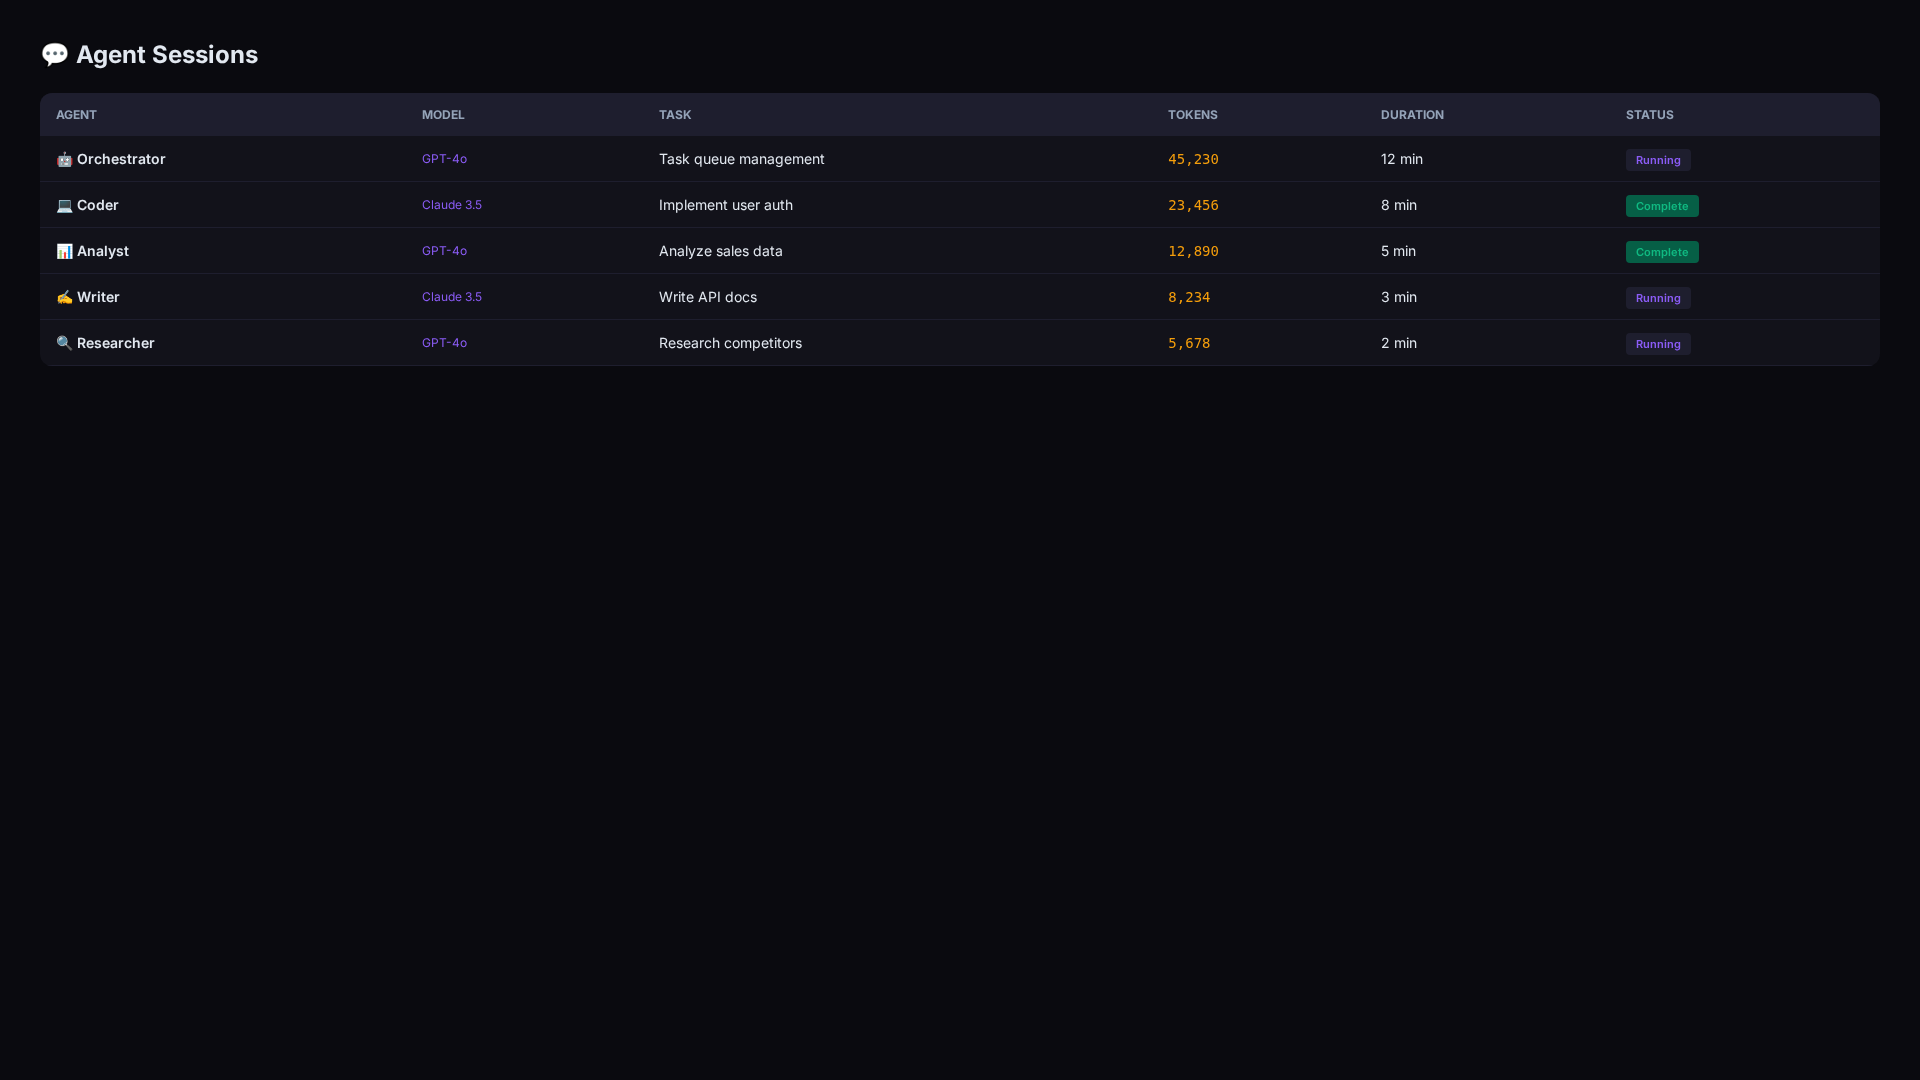
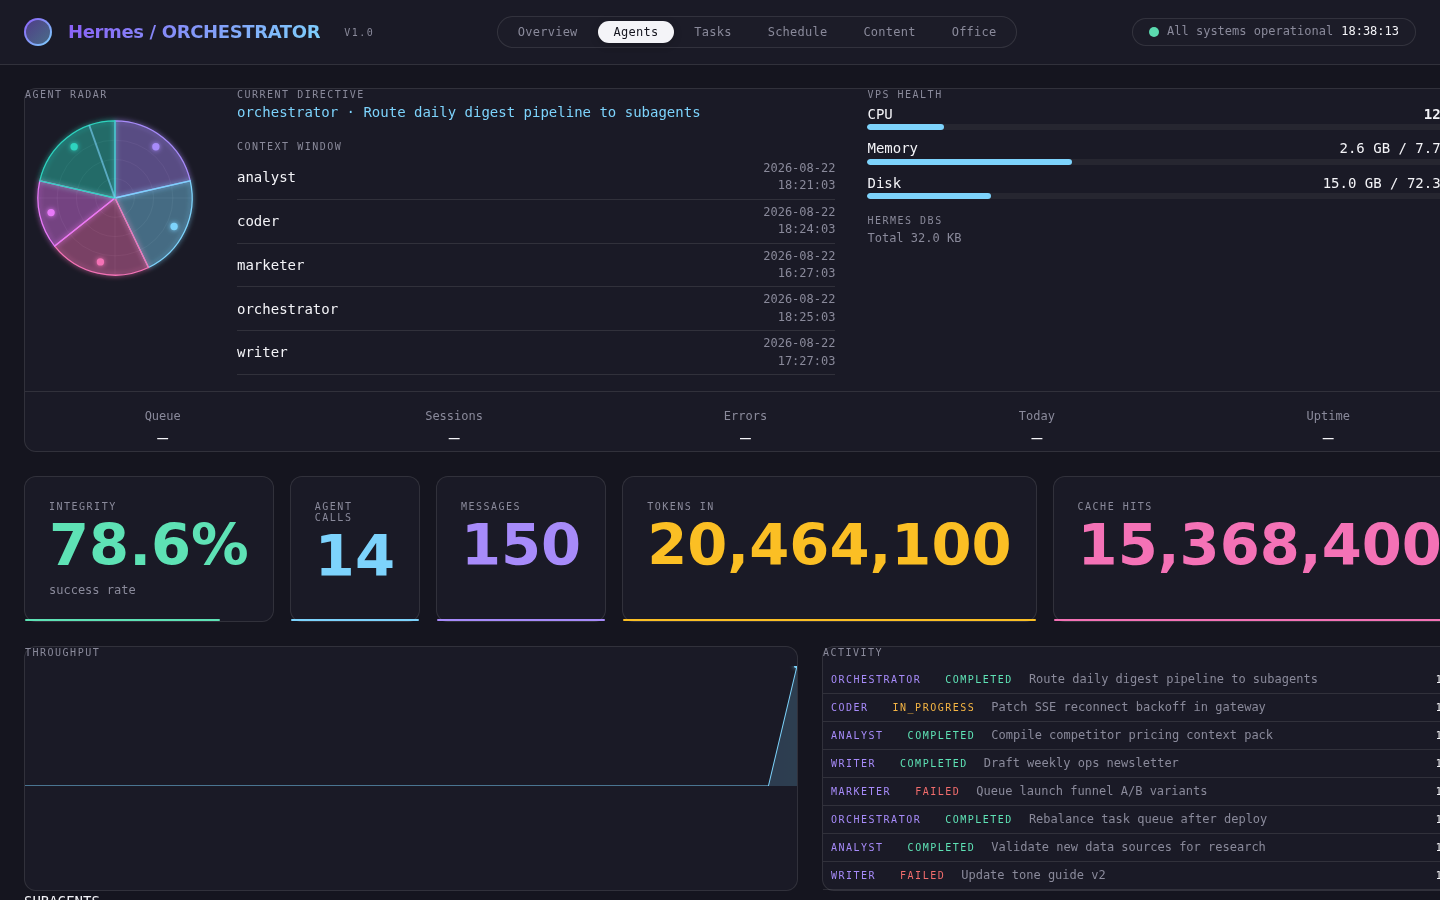
chore(maintenance): audit fixes, screenshots

diff --git a/app.js b/app.js
@@ -129,7 +129,7 @@ function renderContext(container, activity) {
 }
 function renderVpsHealth(container, vps) {
   if (!container) return;
-  if (!vps || vps.error) { container.innerHTML = Badge({ text: v && v.error || 'unavailable', color: 'var(--status-error)' }); return; }
+  if (!vps || vps.error) { container.innerHTML = Badge({ text: (vps && vps.error) || 'unavailable', color: 'var(--status-error)' }); return; }
   const cpuColor = vps.cpu_percent > 85 ? 'var(--status-error)' : vps.cpu_percent > 70 ? 'var(--status-warning)' : 'var(--brand-cyan)';
   const memColor = vps.memory.percent > 85 ? 'var(--status-error)' : vps.memory.percent > 70 ? 'var(--status-warning)' : 'var(--brand-cyan)';
   const diskColor = vps.disk.percent > 85 ? 'var(--status-error)' : vps.disk.percent > 70 ? 'var(--status-warning)' : 'var(--brand-cyan)';
@@ -549,39 +549,37 @@ function columnHTML(status, tasks) {
     </div>
   `;
 }
+async function handleBoardClick(e) {
+  const btn = e.target.closest('button[data-act], button[data-add]');
+  if (!btn) return;
+  const addBtn = btn.closest('[data-add]');
+  if (addBtn) { openAddModal(); return; }
+  const act = btn.dataset.act;
+  const card = btn.closest('.task-card');
+  const id = card?.dataset.id;
+  const task = boardTasks.find(t => t.id === id);
+  if (!task) return;
+  if (act === 'delete') {
+    card.style.opacity = '0.4'; card.style.pointerEvents = 'none';
+    try { await deleteTaskApi(task.id); boardTasks = boardTasks.filter(t => t.id !== task.id); }
+    catch (err) { card.style.opacity = '1'; card.style.pointerEvents = 'auto'; }
+    finally { await refreshBoard(); renderBoard(); }
+    return;
+  }
+  if (act === 'forward' || act === 'back') {
+    const dir = act === 'forward' ? 1 : -1;
+    const next = moveStatus(task.status, dir);
+    if (!next) return;
+    card.style.opacity = '0.5';
+    try { await updateTaskStatus(task.id, next); task.status = next; }
+    catch (err) { card.style.opacity = '1'; }
+    finally { await refreshBoard(); renderBoard(); }
+  }
+}
 function buildTasks() {
-  const board = document.getElementById('board-root');
-  if (!board) return '';
-  board.addEventListener('click', async (e) => {
-    const btn = e.target.closest('button[data-act], button[data-add]');
-    if (!btn) return;
-    const addBtn = btn.closest('[data-add]');
-    if (addBtn) { openAddModal(); return; }
-    const act = btn.dataset.act;
-    const card = btn.closest('.task-card');
-    const id = card?.dataset.id;
-    const task = boardTasks.find(t => t.id === id);
-    if (!task) return;
-    if (act === 'delete') {
-      card.style.opacity = '0.4'; card.style.pointerEvents = 'none';
-      try { await deleteTaskApi(task.id); boardTasks = boardTasks.filter(t => t.id !== task.id); }
-      catch (err) { card.style.opacity = '1'; card.style.pointerEvents = 'auto'; }
-      finally { await refreshBoard(); renderBoard(); }
-      return;
-    }
-    if (act === 'forward' || act === 'back') {
-      const dir = act === 'forward' ? 1 : -1;
-      const next = moveStatus(task.status, dir);
-      if (!next) return;
-      card.style.opacity = '0.5';
-      try { await updateTaskStatus(task.id, next); task.status = next; }
-      catch (err) { card.style.opacity = '1'; }
-      finally { await refreshBoard(); renderBoard(); }
-    }
-  });
   return `
     <div class="board" id="board-root">
-      ${STATUS_FLOW.map(s => columnHTML(s, boardTasks.filter(t => (t.status || 'pending') === s))).join('')}
+      ${STATUS_FLOW.map(s => columnHTML(s, [])).join('')}
     </div>
     <div id="modal-root"></div>
   `;
@@ -590,6 +588,10 @@ function renderTasksTab(data) {
   currentData = data;
   const boardRoot = document.getElementById('board-root');
   if (!boardRoot) return;
+  if (!boardRoot.dataset.bound) {
+    boardRoot.dataset.bound = '1';
+    boardRoot.addEventListener('click', handleBoardClick);
+  }
   const pending = boardTasks.filter(t => (t.status || 'pending') === 'pending');
   const inProg = boardTasks.filter(t => (t.status || 'pending') === 'in_progress');
   const done = boardTasks.filter(t => (t.status || 'pending') === 'completed');
@@ -653,8 +655,10 @@ function buildShell() {
       panels.forEach(p => p.classList.remove('active'));
       document.getElementById(`tab-${btn.dataset.tab}`).classList.add('active');
       if (btn.dataset.tab === 'tasks') renderBoard();
+      if (btn.dataset.tab === 'agents') renderAgentsTab(currentData);
+      if (btn.dataset.tab === 'schedule') renderScheduleTab(currentData);
       if (btn.dataset.tab === 'content') renderContentTab();
-      if (btn.dataset.tab === 'office') renderOfficeTab();
+      if (btn.dataset.tab === 'office') renderOfficeTab(currentData);
     });
   });
   const clockEl = nav.querySelector('.clock');
@@ -951,8 +955,8 @@ async function renderContentView(panel, doc) {
   try {
     const res = await fetchContentFile(doc.path);
     const md = res.content || res.text || '';
-    if (typeof marked !== 'undefined') {
-      html = marked.parse(md);
+    if (typeof marked !== 'undefined' && typeof DOMPurify !== 'undefined') {
+      html = DOMPurify.sanitize(marked.parse(md));
     } else {
       html = '<pre>' + esc(md) + '</pre>';
     }
@@ -1027,7 +1031,7 @@ let officeRenderer = null;
 let officeAgents = [];
 let officeAnimId = null;
 let raycaster = null;
-let mouse = new THREE.Vector2();
+let mouse = { x: 0, y: 0 };
 let selectedOfficeAgent = null;
 let cameraAngle = Math.PI / 4;
 let cameraHeight = 12;

diff --git a/components.js b/components.js
@@ -8,7 +8,10 @@ export const GlassCard = ({ children, className = '', style = {} }) => `
   ">${children}</div>
 `;
 
+const esc = (s) => String(s ?? '').replace(/[&<>"']/g, c => ({'&':'&amp;','<':'&lt;','>':'&gt;','"':'&quot;',"'":'&#39;'}[c]));
+
 export const Badge = ({ text, color = 'var(--text-muted)', variant = 'subtle' }) => {
+  text = esc(text);
   const bg = variant === 'solid' ? color : `${color}20`;
   return `<span class="badge" style="
     background: ${bg};
@@ -37,11 +40,14 @@ export const ProgressBar = ({ pct, color = 'var(--brand-cyan)', height = '6px' }
   </div>
 `;
 
-export const ThinBar = ({ pct, color }) => `
+export const ThinBar = ({ pct, color }) => {
+  const vals = Array.isArray(pct) ? pct : Array.from({ length: 7 }, () => Number(pct) || 0);
+  return `
   <div style="display: flex; gap: 2px; align-items: flex-end; height: 32px;">
-    ${pct.reverse().map((v, i) => `<div style="width: calc(100% / 7 - 2px); height: ${Math.max(2, v * 0.32)}px; background: ${color}; border-radius: var(--radius-sm); opacity: ${v > 0 ? 0.85 : 0.15};"></div>`).join('')}
+    ${[...vals].reverse().map((v, i) => `<div style="width: calc(100% / 7 - 2px); height: ${Math.max(2, v * 0.32)}px; background: ${color}; border-radius: var(--radius-sm); opacity: ${v > 0 ? 0.85 : 0.15};"></div>`).join('')}
   </div>
 `;
+};
 
 export const DonutChart = ({ slices, total }) => {
   if (total === 0) return '<canvas style="width:130px;height:130px"></canvas>';

diff --git a/index.html b/index.html
@@ -3,8 +3,10 @@
 <head>
 <meta charset="UTF-8">
 <meta name="viewport" content="width=device-width, initial-scale=1.0">
+<link rel="icon" href="data:,">
 <link rel="stylesheet" href="tokens.css">
   <script src="https://cdn.jsdelivr.net/npm/marked/marked.min.js" defer></script>
+  <script src="https://cdnjs.cloudflare.com/ajax/libs/dompurify/3.1.6/purify.min.js" defer></script>
   <script src="https://cdnjs.cloudflare.com/ajax/libs/three.js/r128/three.min.js" defer></script>
 <style>
   html, body {

diff --git a/server.py b/server.py
@@ -8,6 +8,7 @@ import sys
 import time
 from datetime import datetime, timezone
 from http.server import BaseHTTPRequestHandler
+from urllib.parse import unquote
 
 PROJECT_DIR = os.path.dirname(os.path.abspath(__file__))
 HERMES_HOME = os.environ.get("HERMES_HOME", os.path.join(PROJECT_DIR, "..", ".hermes"))
@@ -345,9 +346,12 @@ def cron_jobs():
 CONTENT_DIR = os.environ.get("MISSION_CONTROL_CONTENT_DIR", os.path.join(PROJECT_DIR, "content"))
 
 def _safe_content_path(raw):
-    p = os.path.normpath(os.path.join(CONTENT_DIR, raw or ""))
-    if not p.startswith(CONTENT_DIR):
+    root = os.path.realpath(CONTENT_DIR)
+    p = os.path.realpath(os.path.join(root, raw or ""))
+    if p != root and not p.startswith(root + os.sep):
         raise ValueError("path traversal rejected")
+    if not p.endswith(".md"):
+        raise ValueError("only .md files are supported")
     return p
 
 def list_content():
@@ -389,7 +393,10 @@ def list_content():
     return safe(_run)
 
 def get_content(raw_path):
-    p = _safe_content_path(raw_path)
+    try:
+        p = _safe_content_path(raw_path)
+    except ValueError as e:
+        return {"error": str(e)}
     def _run():
         with open(p, "r", encoding="utf-8") as f:
             return f.read()
@@ -398,7 +405,10 @@ def get_content(raw_path):
 def save_content(data):
     raw = data.get("path") or ""
     content = data.get("content") or ""
-    p = _safe_content_path(raw)
+    try:
+        p = _safe_content_path(raw)
+    except ValueError as e:
+        return {"error": str(e)}
     def _run():
         os.makedirs(os.path.dirname(p) or CONTENT_DIR, exist_ok=True)
         with open(p, "w", encoding="utf-8") as f:
@@ -579,12 +589,14 @@ class Handler(BaseHTTPRequestHandler):
                 pass
             finally:
                 self.request.settimeout(None)
+        elif self.path == "/api/health":
+            self._send_json({"status": "ok", "t": datetime.now(timezone.utc).isoformat()})
         elif self.path == "/api/board":
             self._send_json(get_board())
         elif self.path == "/api/content":
             self._send_json(list_content())
         elif self.path.startswith("/api/content/get?path="):
-            file_path = self.path.split("=", 1)[1]
+            file_path = unquote(self.path.split("=", 1)[1])
             self._send_json(get_content(file_path))
         else:
             self.send_error(404)
@@ -612,14 +624,23 @@ class Handler(BaseHTTPRequestHandler):
                 self.end_headers()
                 self.wfile.write(payload)
                 return
-        length = int(self.headers.get("Content-Length", 0))
+        try:
+            length = int(self.headers.get("Content-Length", 0))
+        except ValueError:
+            length = 0
         body = self.rfile.read(length) if length else b""
-        data = json.loads(body) if body else {}
+        try:
+            data = json.loads(body) if body else {}
+            if not isinstance(data, dict):
+                raise ValueError("JSON object required")
+        except ValueError:
+            self._send_json({"error": "invalid JSON body"})
+            return
         if self.path.startswith("/api/board/update?id="):
-            task_id = self.path.split("=", 1)[1]
+            task_id = unquote(self.path.split("=", 1)[1])
             self._send_json(update_task(task_id, data))
         elif self.path.startswith("/api/board/delete?id="):
-            task_id = self.path.split("=", 1)[1]
+            task_id = unquote(self.path.split("=", 1)[1])
             self._send_json(delete_task(task_id))
         elif self.path == "/api/board":
             self._send_json(create_task(data))
@@ -665,6 +686,7 @@ class Handler(BaseHTTPRequestHandler):
 def run():
     init_board()
     socketserver.ThreadingTCPServer.allow_reuse_address = True
+    socketserver.ThreadingTCPServer.daemon_threads = True
     with socketserver.ThreadingTCPServer((BIND, PORT), Handler) as httpd:
         print(f"Serving http://{BIND}:{PORT}")
         httpd.serve_forever()

diff --git a/README.md b/README.md
@@ -13,7 +13,7 @@ AI agent operations dashboard
 ---
 
 <p align="center">
-  <img src="docs/assets/demo.gif" alt="OpsCenter preview" width="90%">
+  <img src="docs/screenshots/dashboard.png" alt="OpsCenter preview" width="90%">
 </p>
 
 <br>
@@ -27,21 +27,21 @@ AI agent operations dashboard
 - **Session Tracking** — Historical log of agent sessions and outcomes.
 - **Token Analytics** — Usage tracking and cost monitoring for LLM calls.
 - **System Health** — Server resource monitoring and alerting.
-- **WebSocket Updates** — Live streaming of agent state changes.
+- **Server-Sent Events** — Live streaming of agent state changes.
 - **Dark-Themed UI** — Professional, easy-on-the-eyes operations interface.
 - **Fleet Visualization** — 3D topology view of distributed agent nodes.
 
 ## Quick Start
 
+OpsCenter is a single self-contained Python app — standard library only, no pip dependencies.
+
 ```bash
 git clone https://github.com/OneByJorah/OpsCenter.git
 cd OpsCenter
-cp .env.example .env
-pip install -r requirements.txt
 python3 server.py
 ```
 
-Open **http://localhost:8080** in your browser.
+Open **http://localhost:51763** in your browser.
 
 ### Using the Start Script
 
@@ -54,16 +54,16 @@ chmod +x start.sh
 
 | Variable | Default | Description |
 |----------|---------|-------------|
-| `PORT` | `8080` | Dashboard server port |
+| `PORT` | `51763` | Dashboard server port |
 | `BIND` | `127.0.0.1` | Server bind address |
 | `HERMES_HOME` | `../.hermes` | Path to the Hermes agent home directory |
-| `MISSION_CONTROL_API_KEY` | *(empty)* | API key for protecting dashboard endpoints |
-| `CONTENT_DIR` | `../.hermes/content` | Content directory for the editor |
+| `MISSION_CONTROL_API_KEY` | *(empty)* | API key protecting write endpoints (task board, content editor) via the `X-API-Key` header |
+| `MISSION_CONTROL_CONTENT_DIR` | `./content` | Markdown content directory for the editor |
 
 ## Architecture
 
 ```
-Browser (HTML/JS) ──WebSocket──▶ Python Server ──▶ SQLite
+Browser (HTML/JS) ──SSE / REST──▶ Python Server ──▶ SQLite
                                       │
                                       ▼
                               Agent Gateway API
@@ -80,7 +80,7 @@ OpsCenter/
 ├── tokens.css             # Token-themed styling
 ├── test.html              # UI test page
 ├── board.db               # SQLite database (auto-created)
-├── backups/               # Data backup directory
+├── backups/               # Historical source snapshots
 ├── start.sh               # Quick-start script
 └── server.log             # Runtime logs
 ```
@@ -90,20 +90,22 @@ OpsCenter/
 | Endpoint | Method | Description |
 |----------|--------|-------------|
 | `/` | GET | Main dashboard UI |
-| `/api/agents` | GET | List active agents |
-| `/api/tasks` | GET/POST | Task management |
-| `/api/sessions` | GET | Session history |
-| `/api/health` | GET | System health status |
+| `/api/snapshot` | GET | Full dashboard snapshot (agents, sessions, health, cron, board) |
+| `/events` | GET (SSE) | Live snapshot stream |
+| `/api/health` | GET | Liveness probe |
+| `/api/board` | GET/POST | List / create tasks |
+| `/api/board/update?id=` | POST | Update a task |
+| `/api/board/delete?id=` | POST | Delete a task |
+| `/api/content` | GET | List markdown content files |
+| `/api/content/get?path=` | GET | Read a markdown file |
+| `/api/content/save` | POST | Save a markdown file |
 
 ## Development
 
 ```bash
-pip install -r requirements.txt
-
-# Run the server
 python3 server.py
 
-# Run the UI test page
+# Serve the repo statically (UI test page, no API)
 python3 -m http.server 8081
 ```
 
@@ -112,6 +114,7 @@ python3 -m http.server 8081
 OpsCenter ships with a Dockerfile and docker-compose configuration for self-hosting.
 
 ```bash
+cp .env.example .env
 docker compose up -d
 ```
 
@@ -121,23 +124,9 @@ Contributions are welcome. Please see [CONTRIBUTING.md](CONTRIBUTING.md) for gui
 
 ## Security
 
-For security concerns, see [SECURITY.md](SECURITY.md). Please report vulnerabilities to **info@jorahone.com** — do not use public issues.
-
-## License
-
-MIT © Jhonattan L. Jimenez
-
----
-
-## 🤝 Contributing
-
-See [CONTRIBUTING.md](CONTRIBUTING.md). All contributions follow the [Code of Conduct](CODE_OF_CONDUCT.md).
-
-## 🔒 Security
-
 Found a vulnerability? Please follow our [Security Policy](SECURITY.md) and report privately to `security@jorahone.com`.
 
-## 📄 License
+## License
 
 [MIT License](LICENSE) © Jhonattan L. Jimenez (OneByJorah)
 
